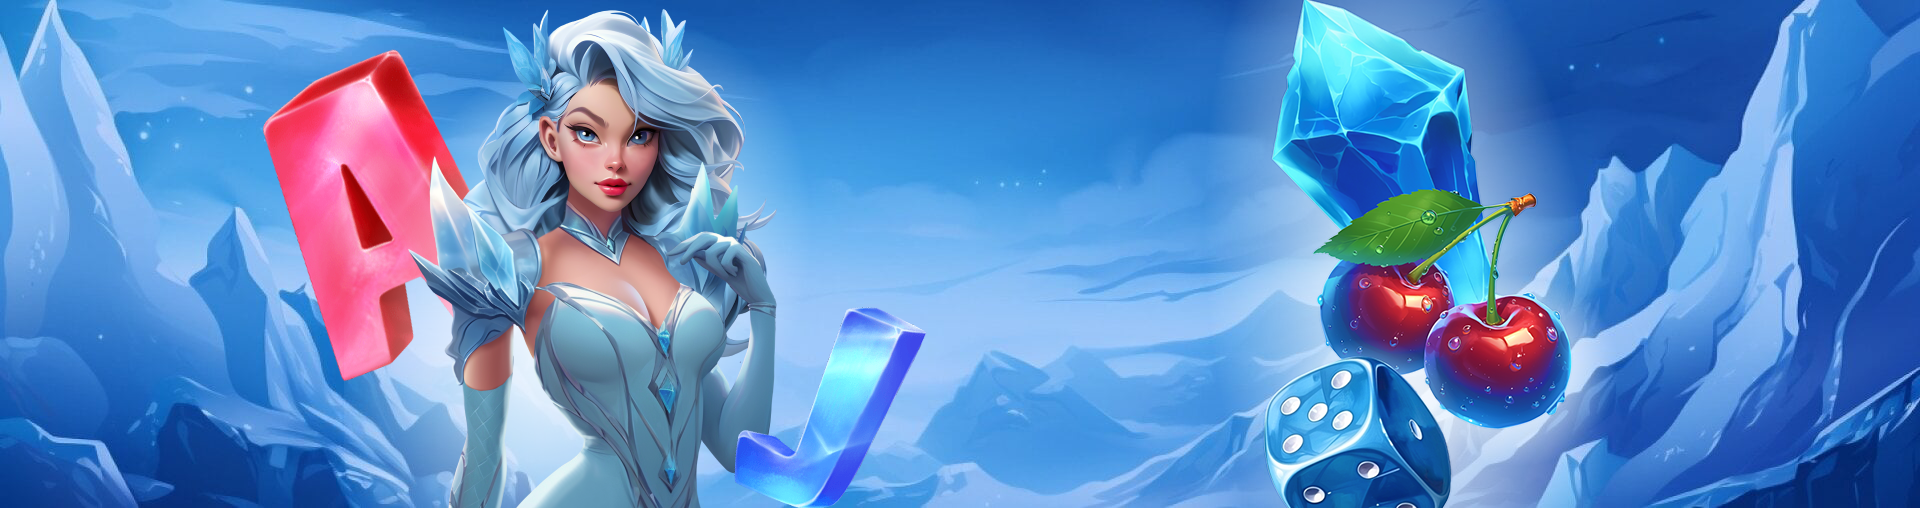
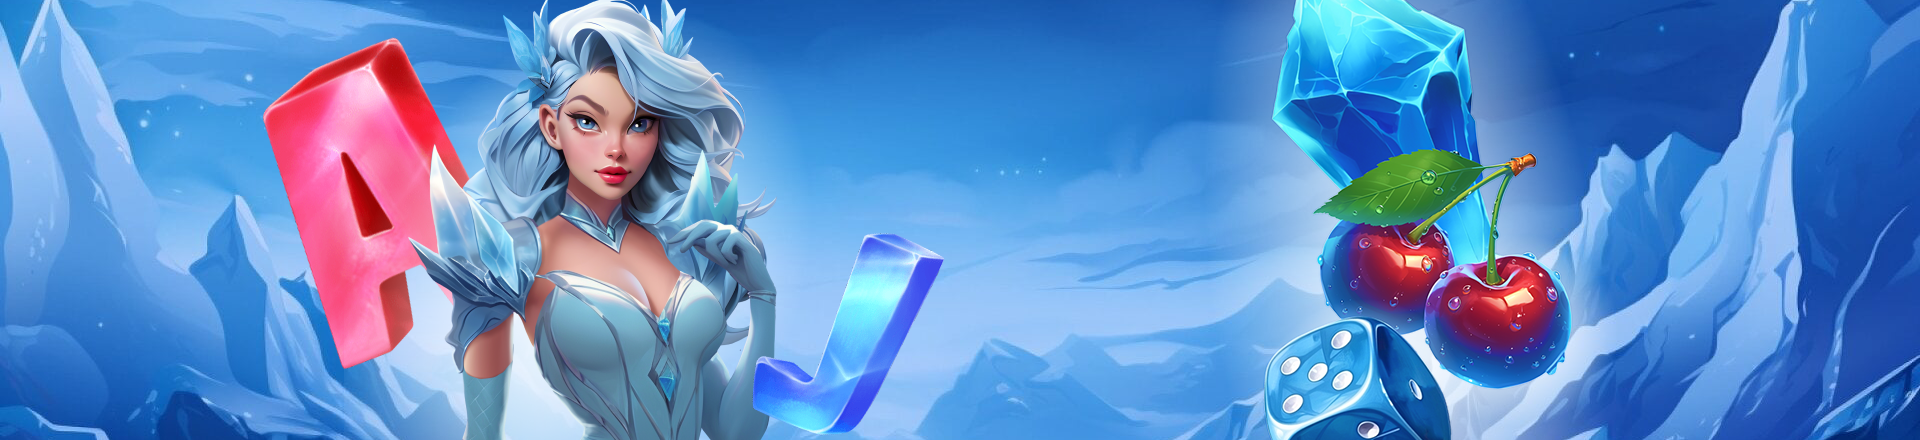
ready for next home update

diff --git a/src/components/Banner/Banner.jsx b/src/components/Banner/Banner.jsx
@@ -6,7 +6,7 @@ import './banner.css';
 import slider1 from "./../../assets/img/slider1.png";
 import slider2 from "./../../assets/img/slider2.png";
 import slider3 from "./../../assets/img/slider3.png";
-import slider4 from "./../../assets/img/slider4.jpg";
+import slider4 from "./../../assets/img/slider4.png";
 
 const Banner = () => {
     useEffect(() => {
@@ -42,6 +42,9 @@ const Banner = () => {
                         </div>
                         <div className="swiper-slide">
                             <img src={slider2} alt="slider2" className='img-fluid'/>
+                        </div>
+                        <div className="swiper-slide">
+                            <img src={slider4} alt="slider2" className='img-fluid'/>
                         </div>
                     </div>
 

diff --git a/src/components/Banner/banner.css b/src/components/Banner/banner.css
@@ -23,6 +23,7 @@
 .swiper-slide{
     display: flex;
     justify-content: center;
+    height: 440px;
 }
 
 .swiper-button-prev , .swiper-button-next{
